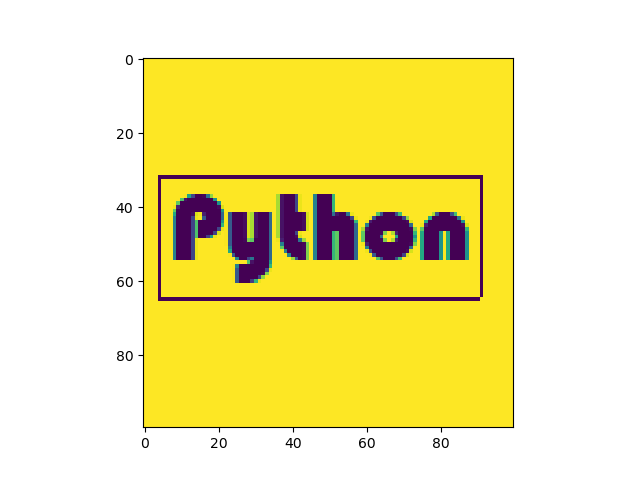
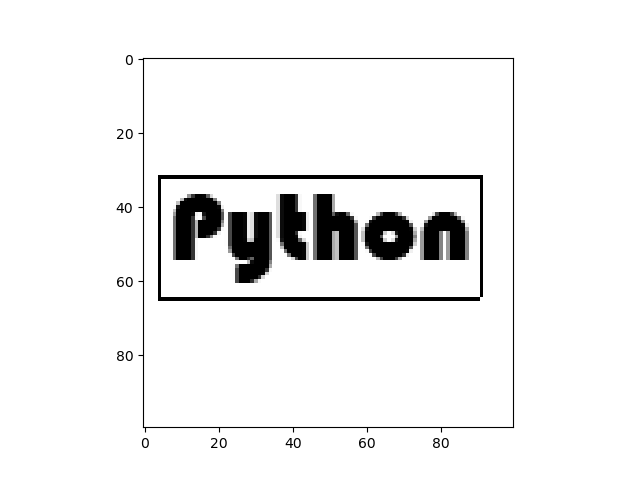
S change -> grayscale result with spacing

diff --git a/P3/Text_Detection.py b/P3/Text_Detection.py
@@ -19,10 +19,10 @@ for r in range(100):
             if c not in cols:
                 cols.append(c)
 
-row_x1 = min(rows)
-row_x2 = max(rows)
-col_y1 = min(cols)
-col_y2 = max(cols)
+row_x1 = min(rows) - 5
+row_x2 = max(rows) + 5
+col_y1 = min(cols) - 5
+col_y2 = max(cols) + 5
 
 image_bw[row_x1, col_y1:col_y2] = 0
 image_bw[row_x2, col_y1:col_y2] = 0
@@ -30,5 +30,5 @@ image_bw[row_x1:row_x2, col_y1] = 0
 image_bw[row_x1:row_x2, col_y2] = 0
 
 plt.imshow(image_bw, cmap=plt.cm.gray)
-plt.savefig(r'picture/result1.png')
+plt.savefig(r'picture/result2.png')
 gc.collect()
